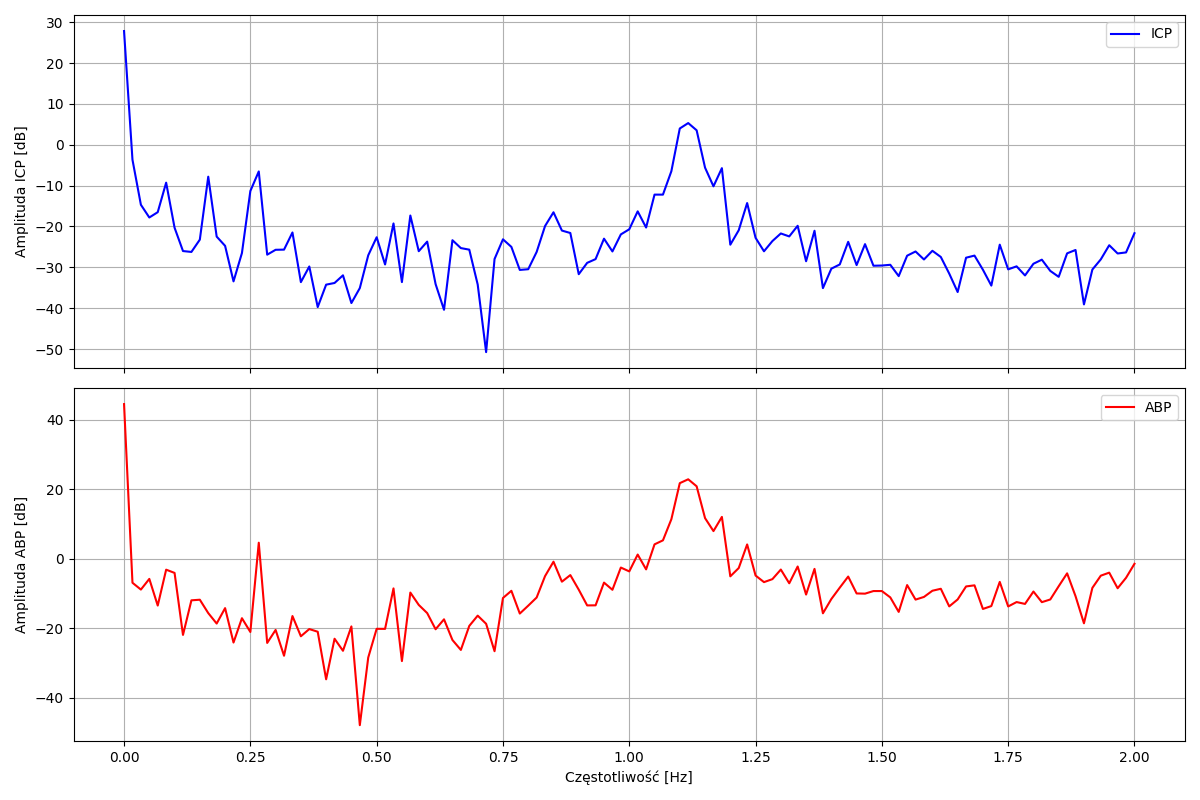
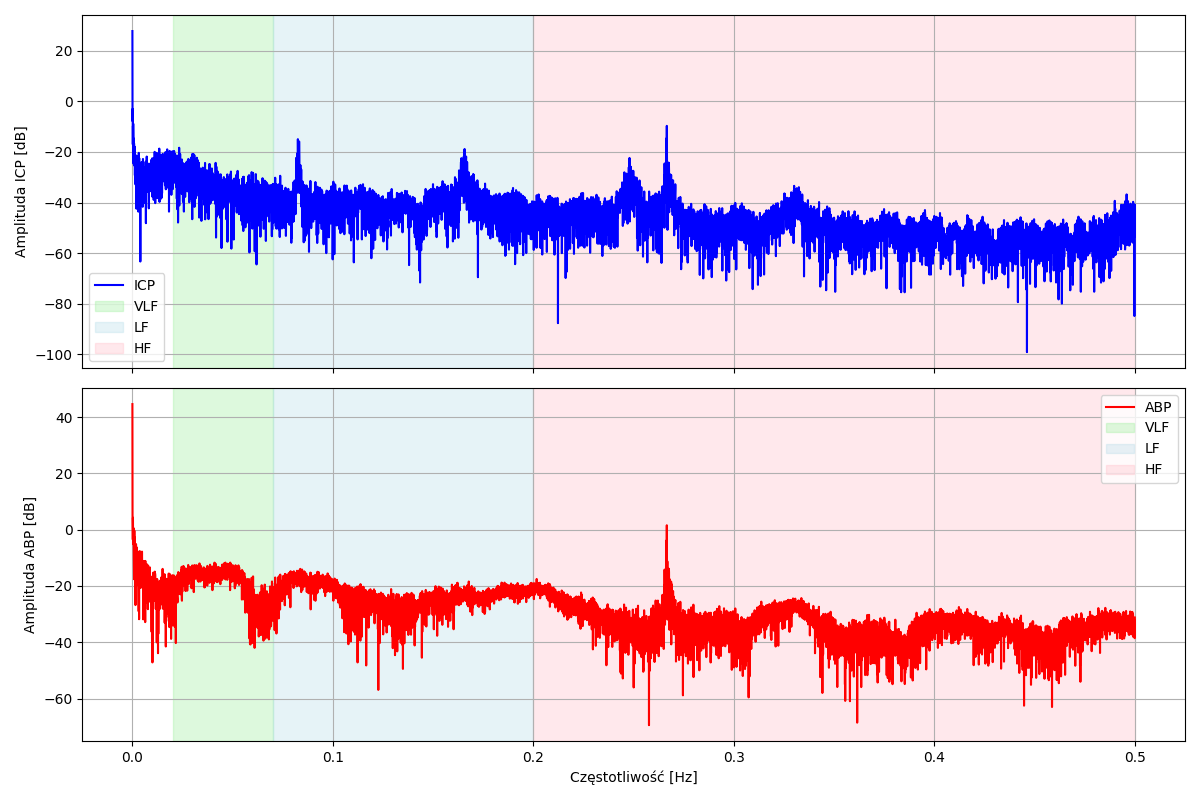
Fixes on p-value calculations along with tweaks in rest of code

diff --git a/src/analyse.py b/src/analyse.py
@@ -1,7 +1,7 @@
 from dataclasses import dataclass
 from pathlib import Path
 from typing import List, Optional, Tuple
-from scipy import interpolate
+from scipy import interpolate, stats
 import matplotlib.pyplot as plt
 import numpy as np
 import pandas as pd
@@ -38,7 +38,7 @@ class SignalLoader:
         data_path (Path): Ścieżka do katalogu z danymi
     """
     def __init__(self, data_dir: str = "data"):
-        self.data_path = Path().resolve().parent / data_dir
+        self.data_path = Path().resolve() / data_dir
         # self.data_path = Path().resolve() / data_dir
     
     @staticmethod
@@ -235,15 +235,18 @@ class SignalAnalyzer:
         return frequencies, magnitudes
 
     def plot_fft_comparison(self, time_window: Optional[tuple] = None, 
-                          freq_range: Optional[tuple] = None,
-                          db_scale: bool = True):
+                       freq_range: Optional[tuple] = None,
+                       db_scale: bool = True,
+                       frequency_bands: Optional[dict] = None):
         """
-        Porównuje widma FFT sygnałów ICP i ABP
+        Porównuje widma FFT sygnałów ICP i ABP z opcjonalnym zaznaczeniem pasm częstotliwości
         
         Args:
             time_window: Opcjonalna krotka (start, koniec) w sekundach dla analizy
             freq_range: Opcjonalna krotka (min_freq, max_freq) do wyświetlenia
             db_scale: Czy używać skali decybelowej (logarytmicznej)
+            frequency_bands: Słownik z pasmami częstotliwości w formacie:
+                {'nazwa_pasma': (częstotliwość_min, częstotliwość_max)}
         """
         # Przygotowanie danych
         if time_window:
@@ -261,7 +264,7 @@ class SignalAnalyzer:
 
         # Konwersja do skali dB jeśli wymagane
         if db_scale:
-            mag_icp = 20 * np.log10(mag_icp + 1e-10)  # Dodajemy małą wartość aby uniknąć log(0)
+            mag_icp = 20 * np.log10(mag_icp + 1e-10)
             mag_abp = 20 * np.log10(mag_abp + 1e-10)
 
         # Przygotowanie wykresu
@@ -278,11 +281,21 @@ class SignalAnalyzer:
 
         # Wykreślenie widm
         ax1.plot(freq_icp, mag_icp, 'b-', label='ICP')
+        ax2.plot(freq_abp, mag_abp, 'r-', label='ABP')
+
+        # Dodanie zaznaczenia pasm częstotliwości jeśli podano
+        if frequency_bands:
+            colors = ['lightgreen', 'lightblue', 'lightpink', 'lightyellow', 'lightgray']
+            for (band_name, (f_min, f_max)), color in zip(frequency_bands.items(), colors):
+                # Zaznaczenie na górnym wykresie (ICP)
+                ax1.axvspan(f_min, f_max, alpha=0.3, color=color, label=band_name)
+                # Zaznaczenie na dolnym wykresie (ABP)
+                ax2.axvspan(f_min, f_max, alpha=0.3, color=color, label=band_name)
+
         ax1.set_ylabel('Amplituda ICP ' + ('[dB]' if db_scale else ''))
         ax1.grid(True)
         ax1.legend()
 
-        ax2.plot(freq_abp, mag_abp, 'r-', label='ABP')
         ax2.set_xlabel('Częstotliwość [Hz]')
         ax2.set_ylabel('Amplituda ABP ' + ('[dB]' if db_scale else ''))
         ax2.grid(True)
@@ -371,29 +384,31 @@ class SignalAnalyzer:
         return freq, coh, phase
 
     def plot_coherence_analysis(self, freq_range: Optional[tuple] = None, 
-                              nperseg: int = 256, significance_level: float = 0.95):
+                          nperseg: int = 256, significance_level: float = 0.95):
         """
-        Wizualizuje analizę koherencji między sygnałami
+        Wizualizuje analizę koherencji między sygnałami z istotności statystyczną per segment
         
         Args:
             freq_range (tuple, optional): Zakres częstotliwości (min, max) w Hz
             nperseg (int): Długość segmentu do analizy
             significance_level (float): Poziom istotności statystycznej (0-1)
-            
-        Notes:
-            - Górny wykres pokazuje koherencję z poziomem istotności
-            - Dolny wykres pokazuje fazę między sygnałami
-            - Automatycznie oblicza próg istotności statystycznej
         """
         # Obliczenie koherencji używając scipy
         freq, coherence, phase = self.calculate_coherence(nperseg=nperseg)
         
-        # Obliczenie poziomu istotności statystycznej
-        dof = 2 * len(self.icp.signal) / nperseg
-        significance_threshold = 1 - (1 - significance_level)**(1/(dof-1))
-
+        # Obliczenie efektywnej liczby segmentów (uwzględniając nakładanie się)
+        noverlap = nperseg // 2
+        n_segments = int(np.floor((len(self.icp.signal) - noverlap) / (nperseg - noverlap)))
+        # Korekta na nakładanie się segmentów
+        n_eff = n_segments * (1 - noverlap/nperseg)  # efektywna liczba niezależnych segmentów
+        
+        # Obliczenie p-value dla każdej częstotliwości
+        # Używamy skorygowanej liczby segmentów i mniej agresywnej transformacji
+        z_transform = np.sqrt(n_eff) * np.arctanh(coherence)  # usunięte mnożenie przez 2 i sqrt z coherence
+        p_values = 2 * (1 - stats.norm.cdf(np.abs(z_transform)))
+        
         # Przygotowanie wykresu
-        fig, (ax1, ax2) = plt.subplots(2, 1, figsize=(12, 8), sharex=True)
+        fig, (ax1, ax2, ax3) = plt.subplots(3, 1, figsize=(12, 12), sharex=True)
 
         # Ograniczenie zakresu częstotliwości jeśli podano
         if freq_range:
@@ -401,11 +416,10 @@ class SignalAnalyzer:
             freq = freq[mask]
             coherence = coherence[mask]
             phase = phase[mask]
+            p_values = p_values[mask]
 
         # Wykres koherencji
         ax1.plot(freq, coherence, 'b-', label='Koherencja')
-        ax1.axhline(y=significance_threshold, color='r', linestyle='--', 
-                   label=f'Poziom istotności ({significance_level:.2f})')
         ax1.set_ylabel('Koherencja')
         ax1.grid(True)
         ax1.legend()
@@ -413,15 +427,34 @@ class SignalAnalyzer:
 
         # Wykres fazy
         ax2.plot(freq, phase, 'g-', label='Faza')
-        ax2.set_xlabel('Częstotliwość [Hz]')
         ax2.set_ylabel('Faza [rad]')
         ax2.grid(True)
         ax2.legend()
         ax2.set_ylim(-np.pi, np.pi)
 
+        # Wykres p-value
+        ax3.plot(freq, p_values, 'r-', label='p-value')
+        critical_value = 1 - significance_level  # = 0.05 dla significance_level = 0.95
+        ax3.axhline(y=critical_value, color='k', linestyle='--', 
+                    label=f'Poziom krytyczny = {critical_value:.3f}')
+        
+        # Zaznaczenie obszarów istotnych statystycznie
+        # Zwiększamy alpha dla lepszej widoczności i upewniamy się, że wypełnienie jest pod krzywą p-value
+        significant_mask = p_values < critical_value
+        ax3.fill_between(freq, 0, 1,  # wypełniamy całą wysokość wykresu
+                        where=significant_mask,
+                        color='g', alpha=0.2,
+                        label='Obszar istotny statystycznie')
+        
+        ax3.set_xlabel('Częstotliwość [Hz]')
+        ax3.set_ylabel('p-value')
+        ax3.grid(True)
+        ax3.legend()
+        ax3.set_ylim(0, 1)
+
         plt.tight_layout()
         plt.show()
-    
+
     def analyze_specific_bands(self):
         """
         Analizuje koherencję w specyficznych pasmach częstotliwości
@@ -510,7 +543,7 @@ class SignalAnalyzer:
         # 1. Podstawowa analiza koherencji
         self.plot_coherence_analysis(
             freq_range=(0, 0.5),
-            nperseg=2048,  # Zwiększona długość okna
+            nperseg=4096,  # Zwiększona długość okna
             significance_level=0.95
         )
         
@@ -563,11 +596,27 @@ def main():
         # Wyświetlenie pierwszych 10 sekund sygnałów
         analyzer.plot_signals(time_window=(0, 10))
 
-        # Analiza FFT dla pierwszych 60 sekund sygnału
+        # Analiza FFT 
         analyzer.plot_fft_comparison(
-            time_window=(0, 60),
-            freq_range=(0, 2),  # Pokazuje częstotliwości do 2 Hz
-            db_scale=True
+            # time_window=(0, 60),  # ograniczenie analizy FFT do pierwszych 60s
+            freq_range=(0, 0.5),  # Pokazuje częstotliwości do 0.5 Hz
+            db_scale=True,
+            frequency_bands={
+                'VLF': (0.02, 0.07),
+                'LF': (0.07, 0.2),
+                'HF': (0.2, 0.5)
+            }
+        )
+
+        analyzer.plot_fft_comparison(
+            # time_window=(0, 60),  # ograniczenie analizy FFT do pierwszych 60s
+            freq_range=(0, 0.5),  # Pokazuje częstotliwości do 0.5 Hz
+            db_scale=False,
+            frequency_bands={
+                'VLF': (0.02, 0.07),
+                'LF': (0.07, 0.2),
+                'HF': (0.2, 0.5)
+            }
         )
         
         # Analiza pasm częstotliwości
